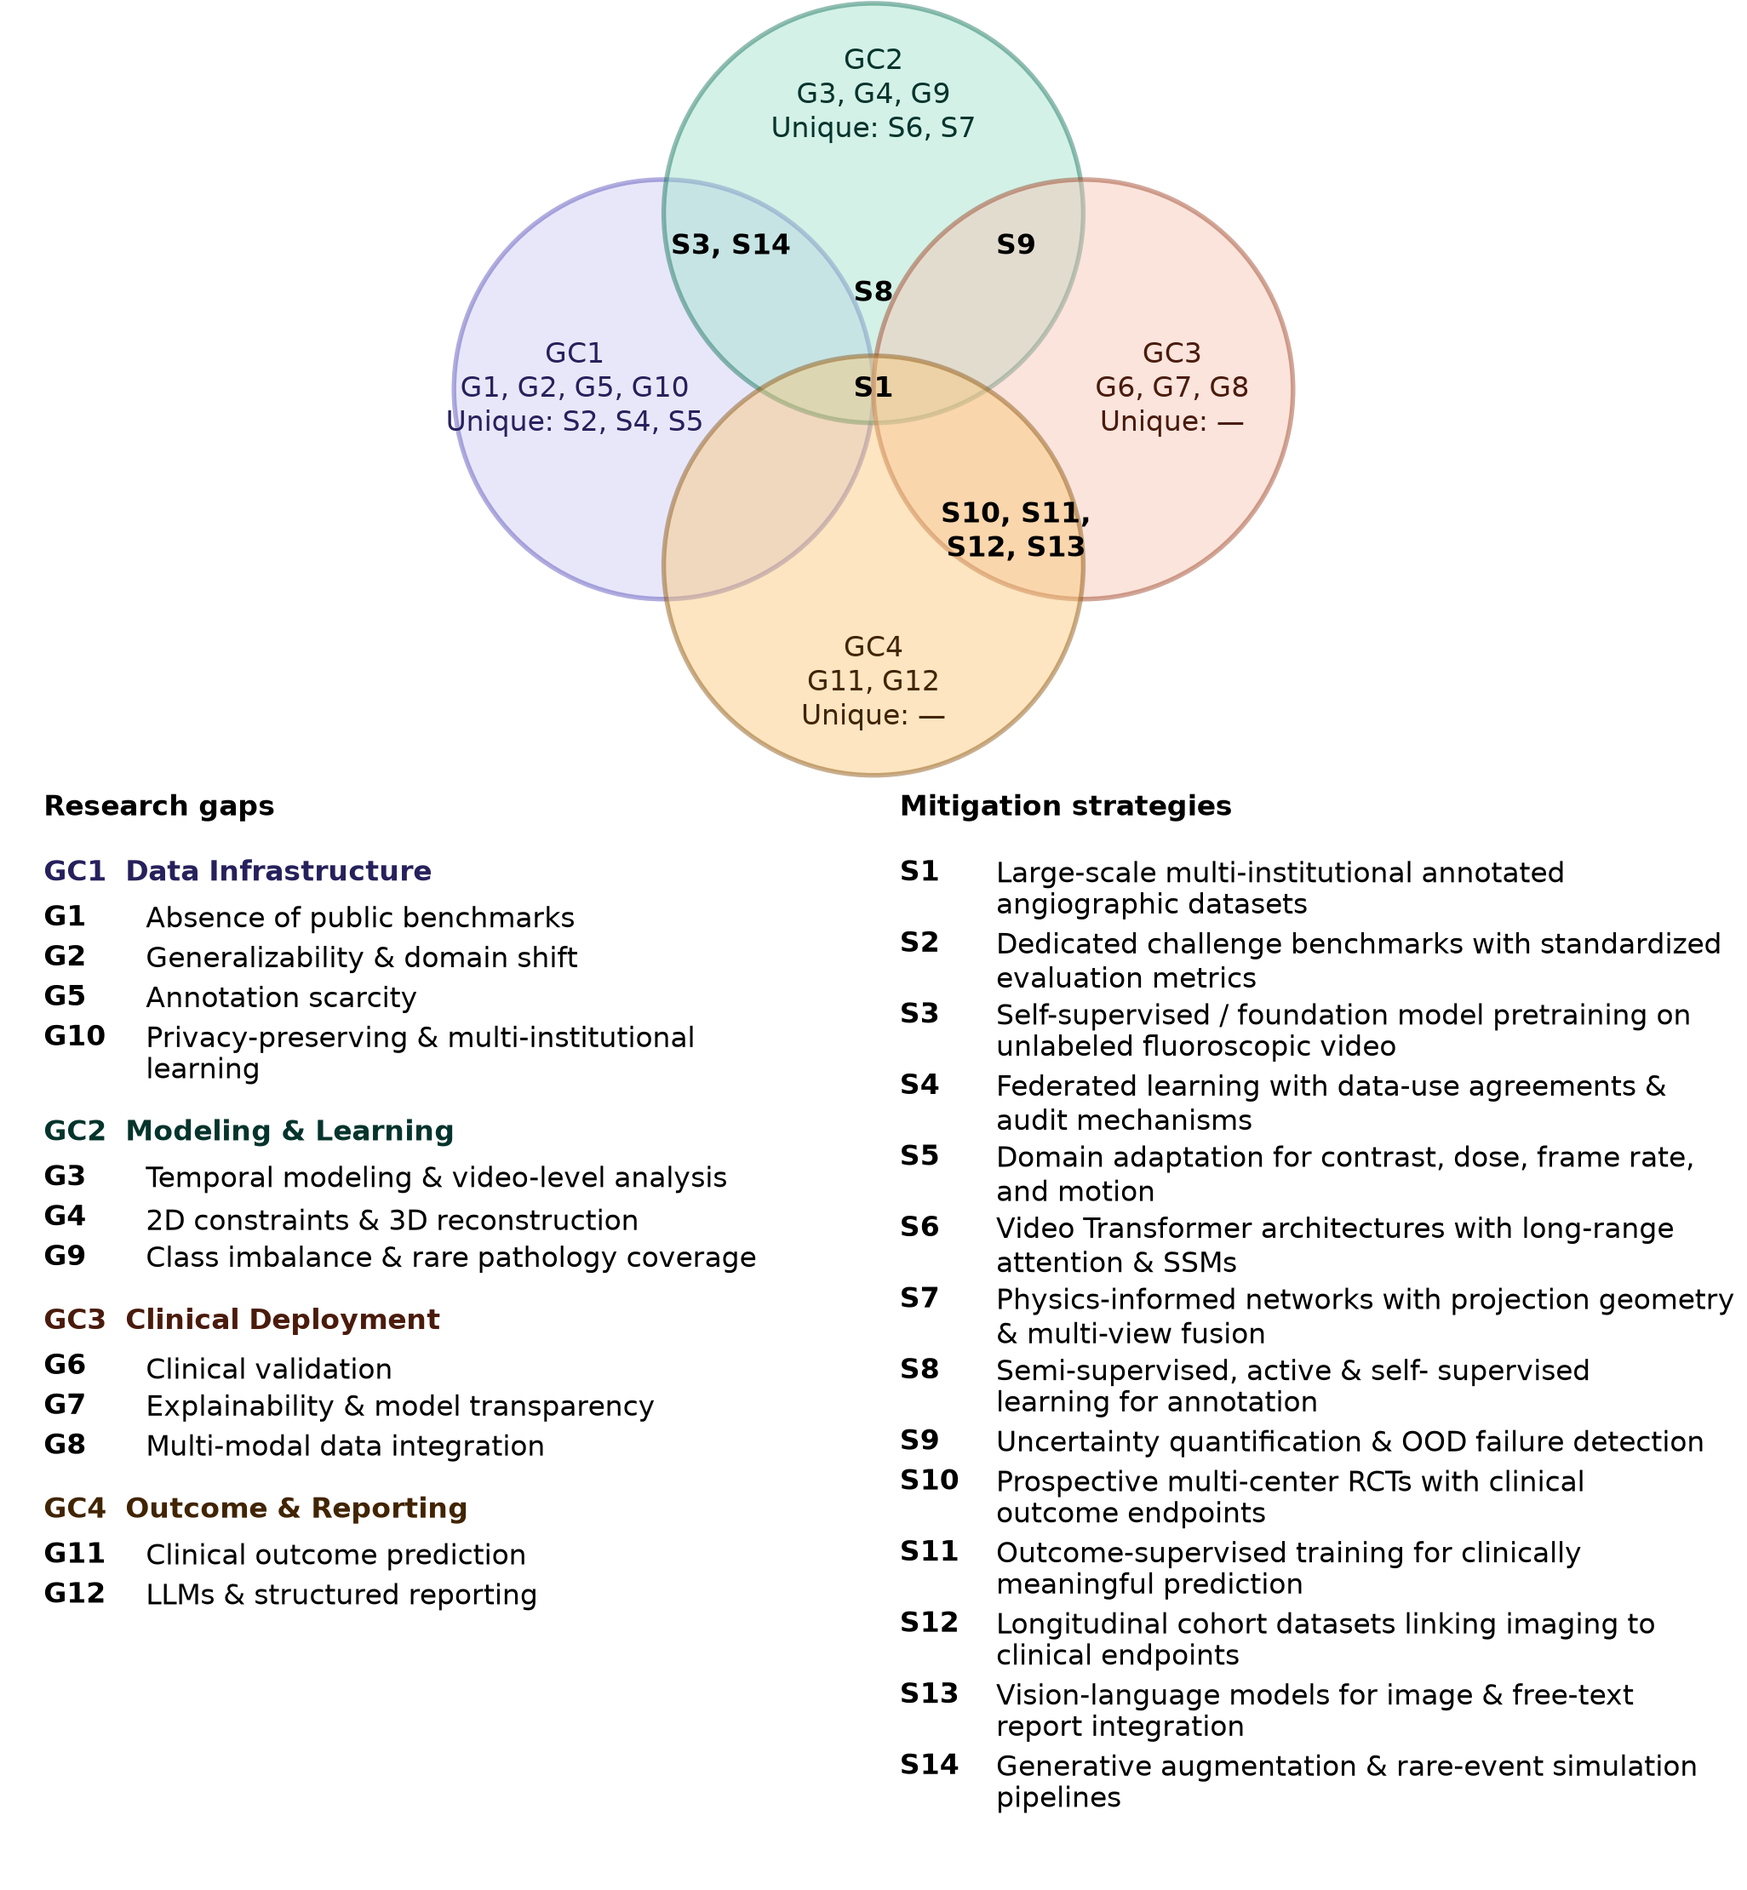
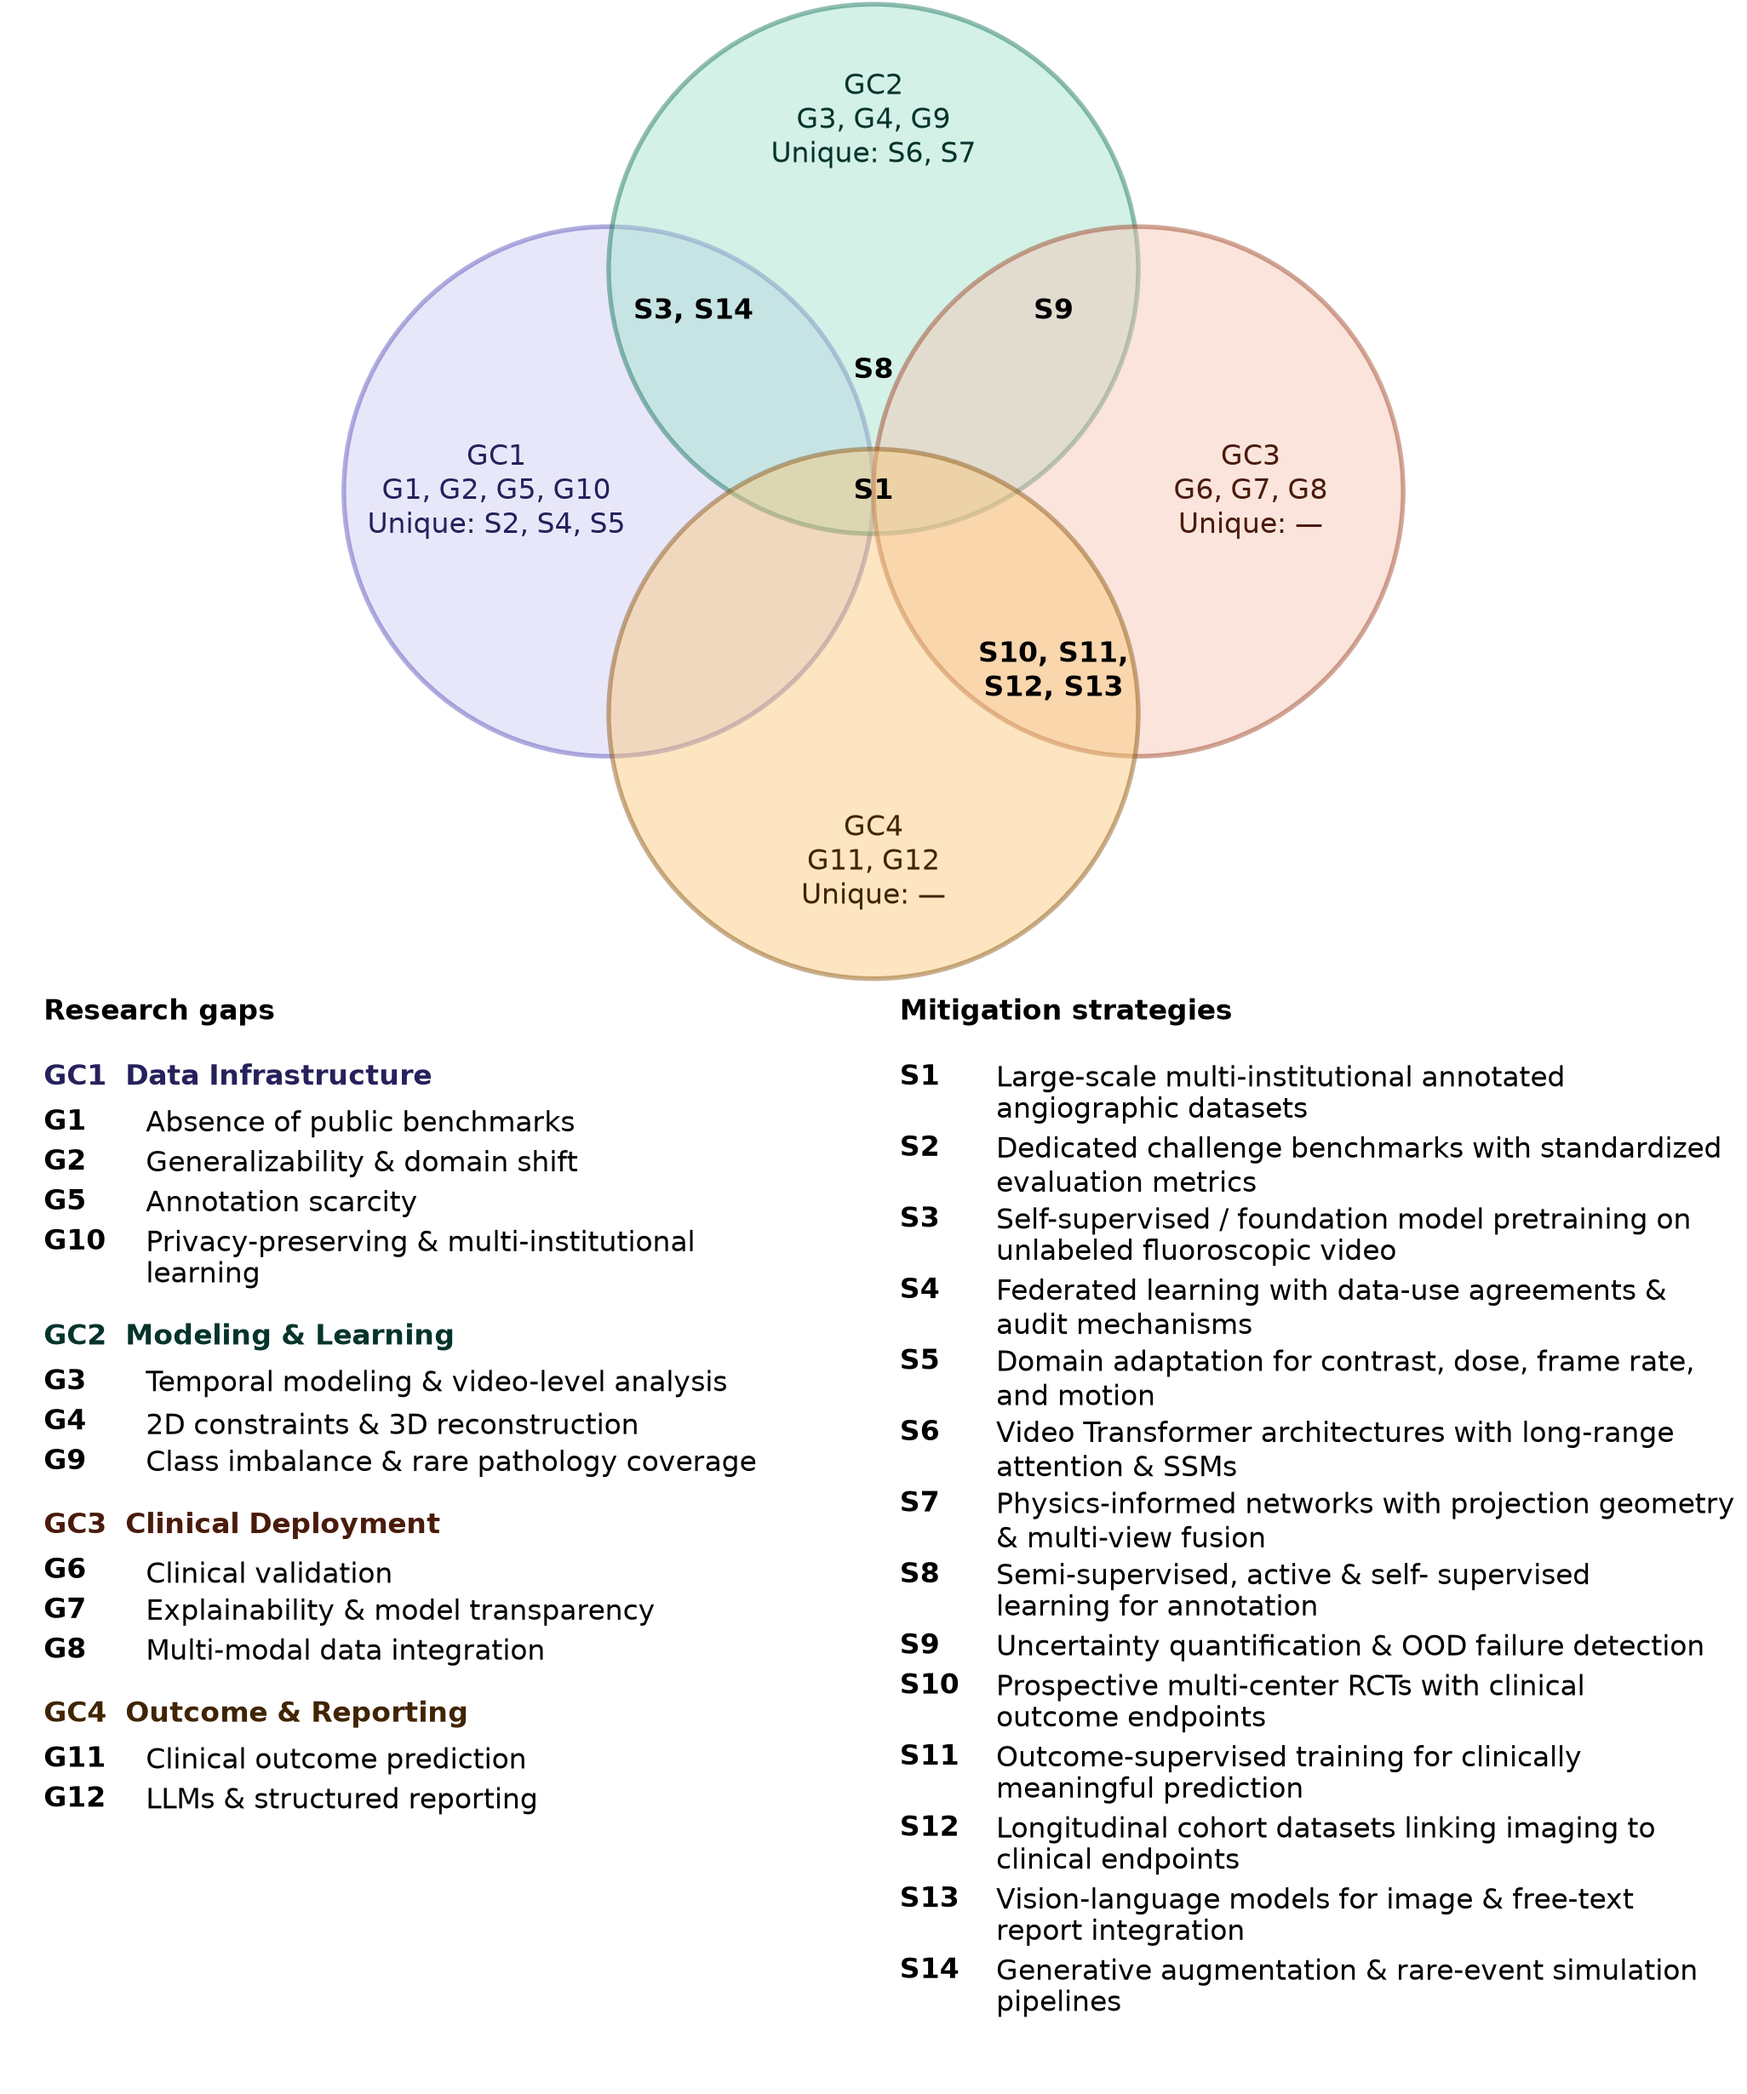
Venn figure: give the circles more height (about 26% larger), lists unchanged

diff --git a/analysis/09_venn_diagram.py b/analysis/09_venn_diagram.py
@@ -99,8 +99,10 @@ import textwrap
 ROOT = Path(__file__).resolve().parents[1]
 OUT = ROOT / 'analysis-results'
 OUT.mkdir(exist_ok=True)
-fig = plt.figure(figsize=(6.84, 7.4), facecolor='white')
-ax = fig.add_axes([0, .588, 1, .412])
+# ponytail: list panels keep their old absolute size; the extra height all goes to the Venn.
+H = 8.2
+fig = plt.figure(figsize=(6.84, H), facecolor='white')
+ax = fig.add_axes([0, 4.351/H, 1, 1-4.351/H])
 ax.set(xlim=(-3.5, 3.5), ylim=(-2.32, 2.32), aspect='equal')
 ax.axis('off')
 centres = {'GC1':(-1.25,0), 'GC2':(0,1.05), 'GC3':(1.25,0), 'GC4':(0,-1.05)}
@@ -120,7 +122,7 @@ R=fig.canvas.get_renderer()
 def below(t,panel,gap):
     # Next entry starts under the drawn text, so wrapped lines never collide.
     return t.get_window_extent(R).transformed(panel.transAxes.inverted()).y0-gap
-left=fig.add_axes([.025,.005,.45,.575]); right=fig.add_axes([.515,.005,.46,.575])
+left=fig.add_axes([.025,.037/H,.45,4.255/H]); right=fig.add_axes([.515,.037/H,.46,4.255/H])
 for panel in (left,right):
     panel.set(xlim=(0,1),ylim=(0,1)); panel.axis('off')
 left.text(0,1,'Research gaps',fontsize=8,weight='bold',va='top')
